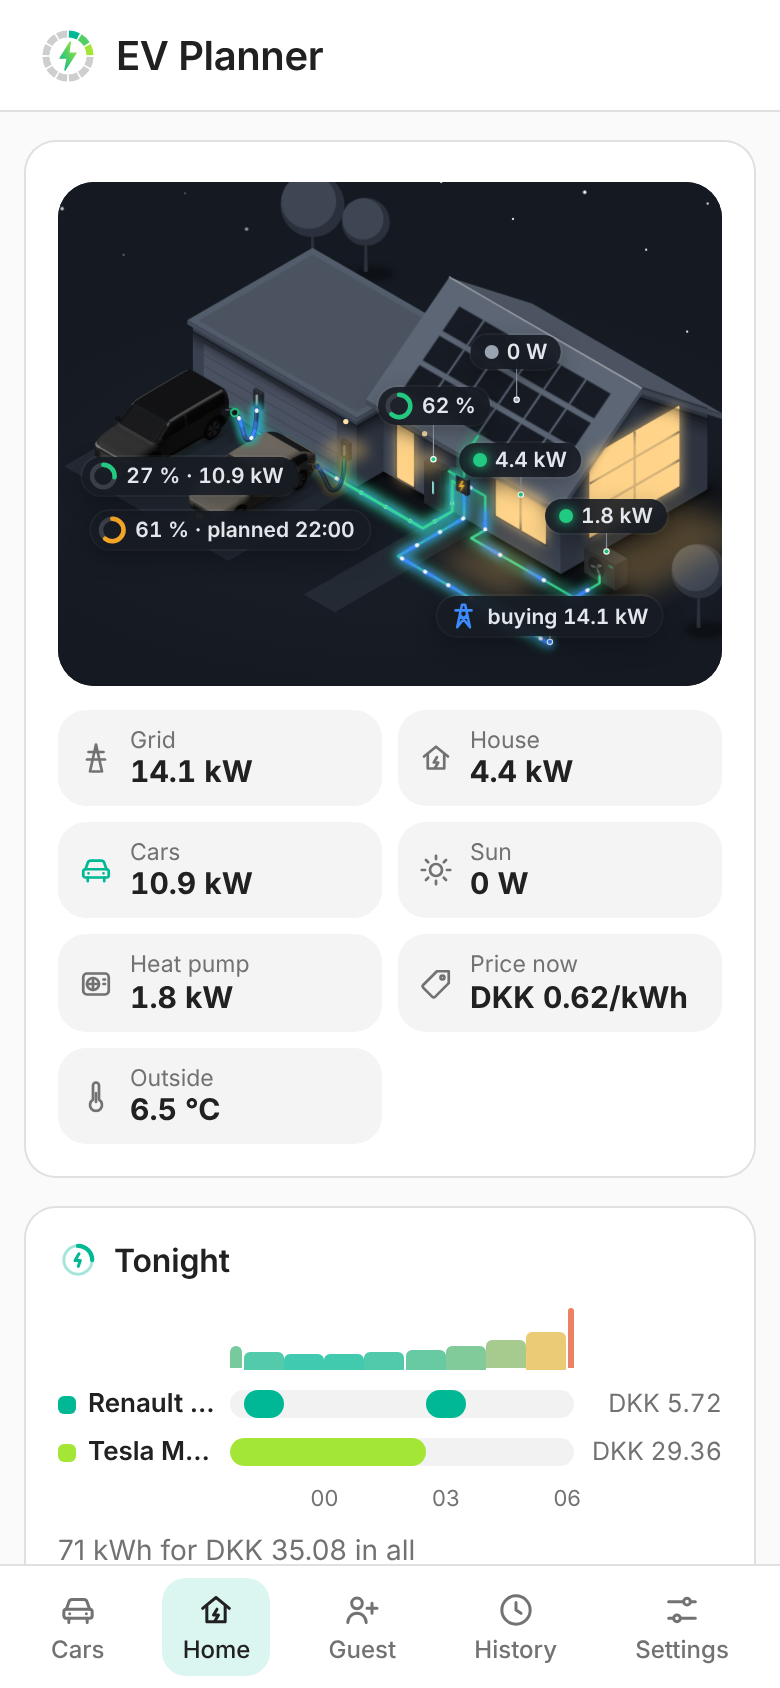
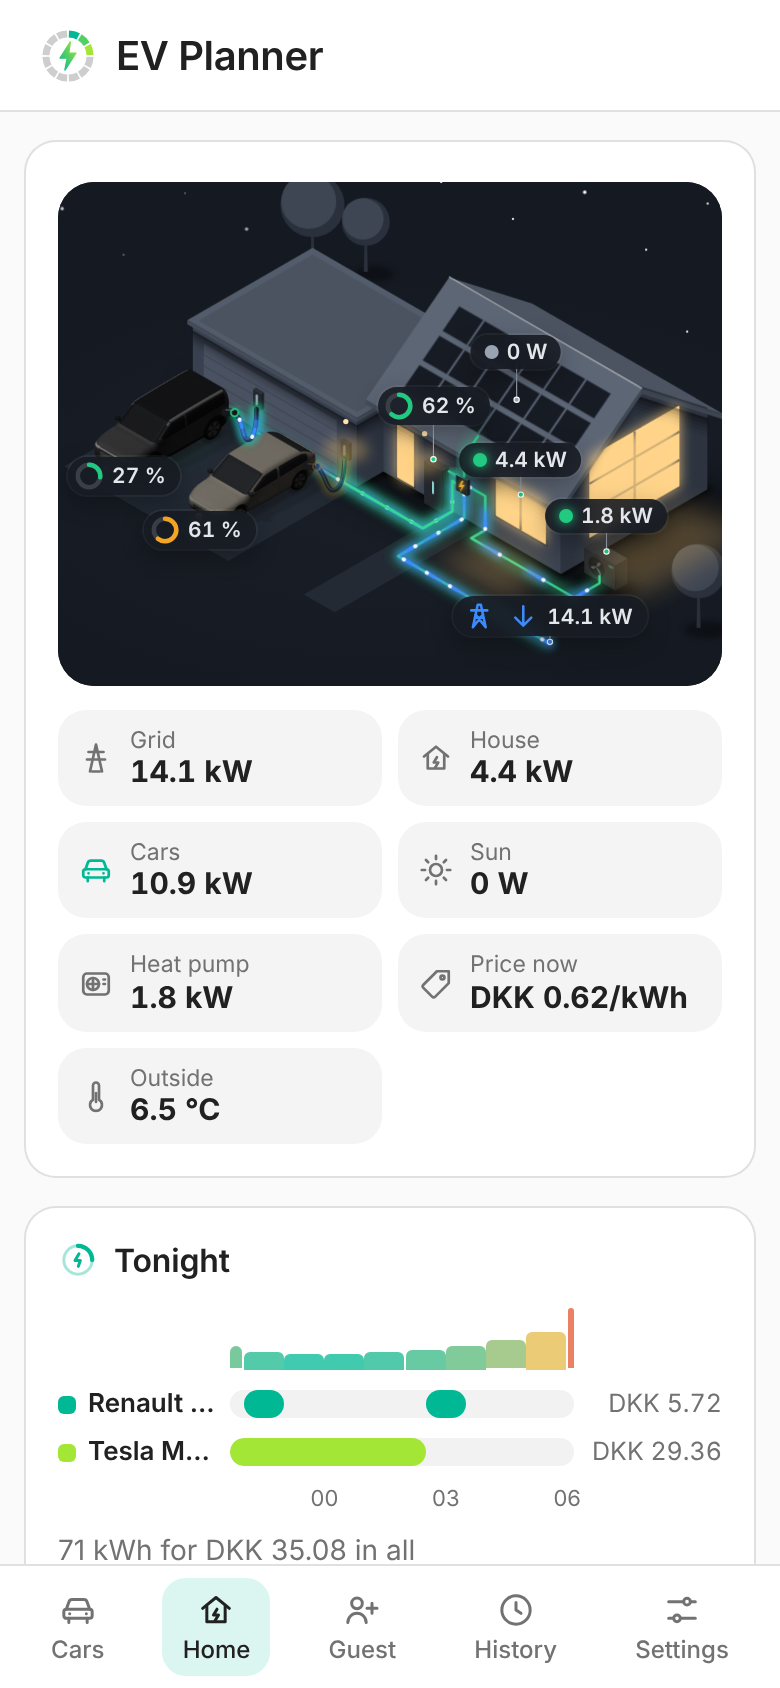
2.3.0b5: smaller labels in the house picture, the grid with an arrow in or out
Claude-Session: https://claude.ai/code/session_011TuwgCuyZemx4LcqfeESru

Changed region(s): [[0.0923, 0.2464, 0.4615, 0.3389], [0.5846, 0.3389, 0.8308, 0.3697]]

diff --git a/custom_components/ev_household_planner/frontend/ev-planner-panel.js b/custom_components/ev_household_planner/frontend/ev-planner-panel.js
@@ -2597,6 +2597,10 @@ const ClayScene = (() => {
       }
     }
 
+    relabel() {
+      if (this.model) this._labels(this.model);
+    }
+
     _labels(m) {
       const anchors = (this.layout || CLASSIC).anchors(m, this.placed);
       const esc = (t) => String(t ?? "").replace(/[&<>"]/g, (c) => ({ "&": "&amp;", "<": "&lt;", ">": "&gt;", '"': "&quot;" })[c]);
@@ -2610,7 +2614,10 @@ const ClayScene = (() => {
         // The cars' labels sit in the drive in front of them, out of the way of the chargers and cables.
         const lift = label.key === "grid" ? 26 : label.key.startsWith("car") ? -14 : 34;
         // Kept inside the picture: half the label's width, roughly, in the picture's units.
-        const half = ((String(label.short ?? label.value).length * 6.6 + 40) / 2) * (vw / (this.el.clientWidth || W));
+        // A label that is tapped open shows its name and all of its text.
+        const open = !!this.open?.has(label.key);
+        const text = open ? `${label.title} ${label.value}` : String(label.short ?? label.value);
+        const half = ((text.length * 6.6 + (label.dir ? 54 : 40)) / 2) * (vw / (this.el.clientWidth || W));
         items.push({ label, ax, ay, half, x: Math.min(vx + vw - half, Math.max(vx + half, ax)), y: Math.max(vy + 14, ay - lift) });
       }
       // Labels that would meet: the lowest stays, the next one moves up over it. Measured in the
@@ -2648,7 +2655,10 @@ const ClayScene = (() => {
         const top = (((y - vy) / vh) * 100).toFixed(2);
         const pylon = `<svg class="cs-icon" viewBox="0 0 20 20" aria-hidden="true" style="stroke:${color}"><path d="M6 17 L9 3 L11 3 L14 17 M5 6.5 L15 6.5 M7.4 11 L12.6 11 M6 17 L12.4 9 M14 17 L7.6 9"/></svg>`;
         const ring = label.icon === "grid" ? pylon : Number.isFinite(label.bar) ? `<svg class="cs-ring" viewBox="0 0 20 20" aria-hidden="true"><circle cx="10" cy="10" r="7.5" class="r0"/><circle cx="10" cy="10" r="7.5" class="r1" pathLength="100" style="stroke-dasharray:${Math.max(0, Math.min(100, label.bar)).toFixed(0)} 100${label.colour ? `;stroke:${label.colour}` : ""}"/></svg>` : `<span class="cs-dot"${label.colour ? ` style="background:${label.colour};box-shadow:0 0 6px ${label.colour}"` : ""}></span>`;
-        html += `<button class="cs-label ${label.on ? "on" : ""} ${label.key === "sun" ? "sun" : ""} ${this.open?.has(label.key) ? "open" : ""}" data-act="scene-label" data-key="${label.key}" style="left:${left}%;top:${top}%" title="${esc(label.title)}" aria-label="${esc(`${label.title}: ${label.value}`)}">${ring}<span class="cs-t">${esc(label.title)}</span><span class="cs-v">${esc(label.short ?? label.value)}</span></button>`;
+        const open = !!this.open?.has(label.key);
+        // In to the house points down, out to the grid points up.
+        const arrow = label.dir && !open ? `<svg class="cs-icon cs-dir" viewBox="0 0 20 20" aria-hidden="true" style="stroke:${color}"><path d="${label.dir === "in" ? "M10 4 L10 16 M5 11 L10 16 L15 11" : "M10 16 L10 4 M5 9 L10 4 L15 9"}"/></svg>` : "";
+        html += `<button class="cs-label ${label.on ? "on" : ""} ${label.key === "sun" ? "sun" : ""} ${open ? "open" : ""}" data-act="scene-label" data-key="${label.key}" data-dir="${label.dir || ""}" style="left:${left}%;top:${top}%" title="${esc(label.title)}" aria-expanded="${open}" aria-label="${esc(`${label.title}: ${label.value}`)}">${ring}${arrow}<span class="cs-t">${esc(label.title)}</span><span class="cs-v">${esc(open ? label.value : (label.short ?? label.value))}</span></button>`;
       }
       this.el.querySelector(".cs-leaders").innerHTML = lines;
       this.el.querySelector(".cs-labels").innerHTML = html;
@@ -2699,6 +2709,7 @@ const CLAY_CSS = `
 .cs-label.open .cs-t { display: inline; }
 .cs-label .cs-v { color: #3A4250; font-variant-numeric: tabular-nums; }
 .is-dark .cs-label .cs-v { color: #E3E7EC; }
+.cs-label .cs-dir { width: 12px; height: 12px; margin-left: -2px; stroke-width: 2.2; }
 .cs-label .cs-icon { width: 16px; height: 16px; flex: none; margin-left: 2px; fill: none; stroke-width: 1.6; stroke-linecap: round; stroke-linejoin: round; }
 .cs-label .cs-ring { width: 18px; height: 18px; flex: none; transform: rotate(-90deg); }
 .cs-label .cs-ring .r0 { fill: none; stroke: #DCE1E8; stroke-width: 3; }
@@ -5422,7 +5433,9 @@ class EvPlannerPanel extends HTMLElement {
       const text = Math.abs(gridKw) < 0.05 ? "0 W" : this._t(gridKw > 0 ? "home_buys" : "home_sells", { kw: power(gridKw) });
       // Blue when the house buys, purple when it sells: the colours of the Energy dashboard.
       const colour = gridKw > 0.05 ? "#3B8BFF" : gridKw < -0.05 ? "#9A6BFF" : "#9AA6B4";
-      labels.push({ key: "grid", title: this._t("home_grid"), value: text, short: text, on: Math.abs(gridKw) > 0.05, colour, icon: "grid" });
+      // Closed: the pylon, an arrow in or out and the power. The words come when it is tapped.
+      const dir = gridKw > 0.05 ? "in" : gridKw < -0.05 ? "out" : null;
+      labels.push({ key: "grid", title: this._t("home_grid"), value: text, short: Math.abs(gridKw) < 0.05 ? "0 W" : power(Math.abs(gridKw)), on: Math.abs(gridKw) > 0.05, colour, icon: "grid", dir });
     }
     const sun = this._hass?.states?.["sun.sun"];
     const elevation = Number(sun?.attributes?.elevation);
@@ -5462,7 +5475,7 @@ class EvPlannerPanel extends HTMLElement {
       const start = v.status === "planned" && hasSegments(v.plan) ? v.plan.segments[0].start : null;
       const doing = kw > 0.05 ? power(kw) : !plugged ? this._t("home_unplugged") : start ? this._t("home_planned_at", { time: this._time(start) }) : v.status === "completed" ? this._t("home_done") : this._t("home_idle");
       const colour = !plugged ? "#9AA6B4" : kw > 0.05 || v.status === "completed" ? "#22C981" : start ? "#F5A524" : "#3B8BFF";
-      labels.push({ key: `car${i}`, title: v.name, value: [soc, doing].filter(Boolean).join(" · "), short: kw > 0.05 || start || v.status === "completed" ? [soc, doing].filter(Boolean).join(" · ") : soc || doing, on: kw > 0.05, colour, bar: isNum(v.soc) ? Number(v.soc) : undefined });
+      labels.push({ key: `car${i}`, title: v.name, value: [soc, doing].filter(Boolean).join(" · "), short: soc || doing, on: kw > 0.05, colour, bar: isNum(v.soc) ? Number(v.soc) : undefined });
     });
     return model;
   }
@@ -6476,10 +6489,11 @@ class EvPlannerPanel extends HTMLElement {
         this._exportHistory();
         break;
       case "scene-label": {
-        button.classList.toggle("open");
         const open = (this._scene.open = this._scene.open || new Set());
-        if (button.classList.contains("open")) open.add(button.dataset.key);
-        else open.delete(button.dataset.key);
+        if (open.has(button.dataset.key)) open.delete(button.dataset.key);
+        else open.add(button.dataset.key);
+        // Laid out again: an open label is wider, and the others make room.
+        this._scene.relabel();
         break;
       }
       case "mode":

diff --git a/CHANGELOG.md b/CHANGELOG.md
@@ -2,6 +2,13 @@
 
 All notable changes to EV Planner. The version is the one in `custom_components/ev_household_planner/manifest.json`.
 
+## [2.3.0b5] - 2026-11-10
+
+Beta: only those who show beta versions in the Marketplace get it.
+
+### Changed
+- **Smaller labels in the house picture.** The grid shows its pylon, an arrow (down: in to the house, up: out to the grid) and the power; a car shows its charge level. Tap a label for its name and the rest: *buying* or *sending out*, the charging power or when the plan starts. The labels no longer lie over the cars on a phone, and the others make room when one is opened.
+
 ## [2.3.0b4] - 2026-11-10
 
 Beta: only those who show beta versions in the Marketplace get it.
